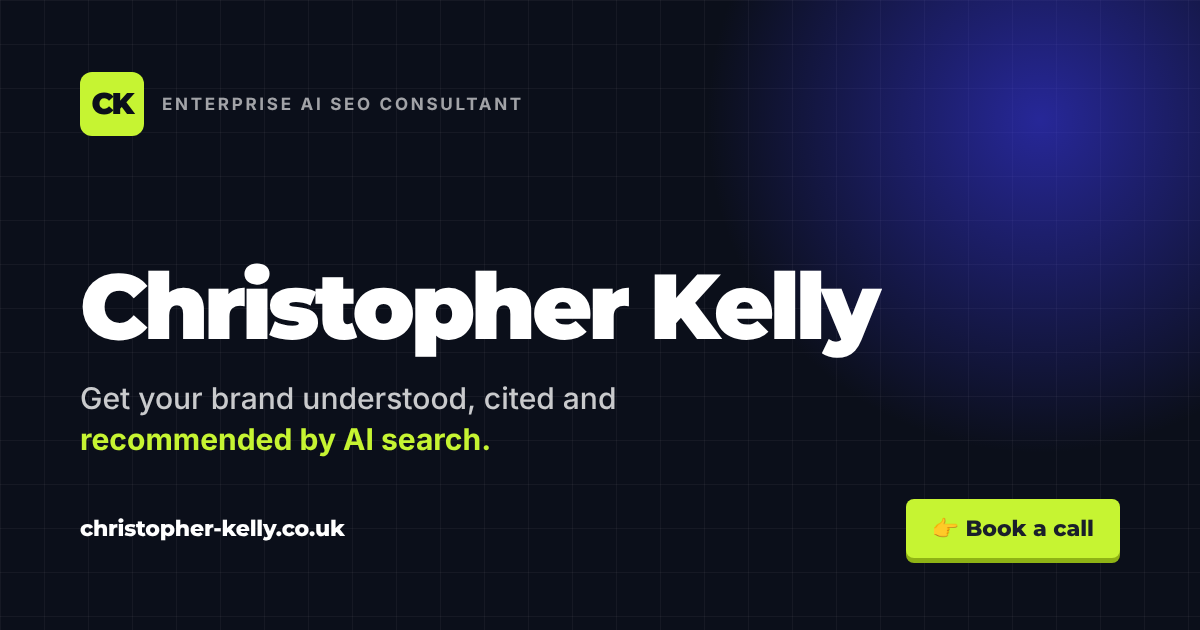
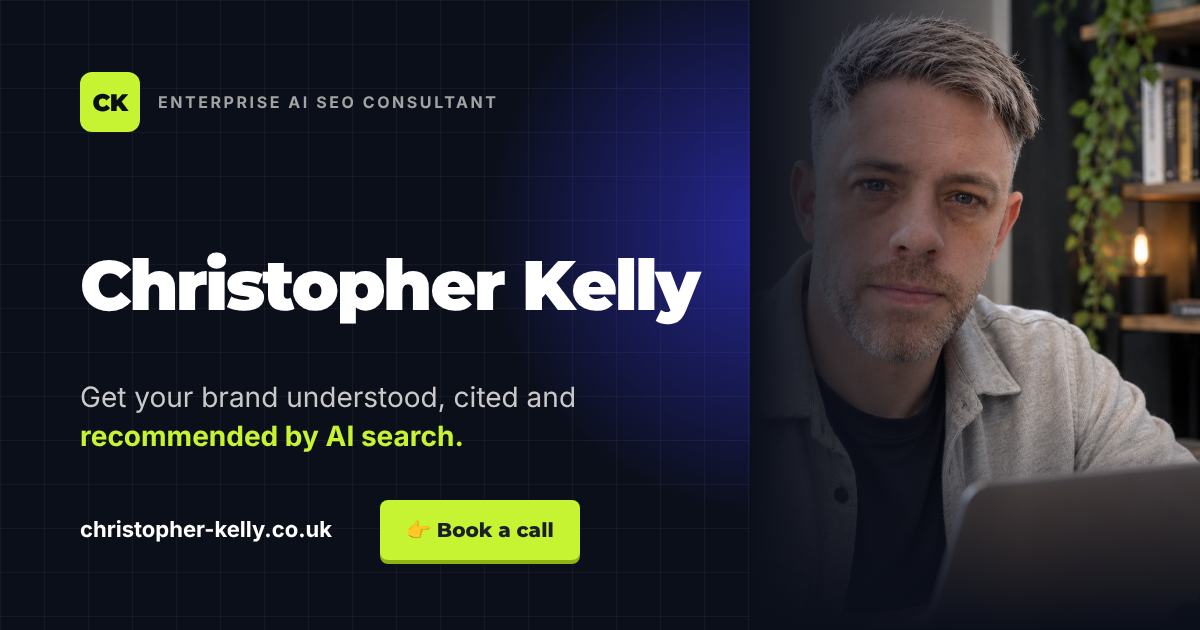
Share image: rebuild og.png with the portrait
Same card, portrait on the right. Source and render script in scripts/.

Claude-Session: https://claude.ai/code/session_011CDCpKfSAxSBB5HyrDDcK9

diff --git a/scripts/og.html b/scripts/og.html
@@ -1,0 +1,31 @@
+<!doctype html><html><head><meta charset="utf-8">
+<style>
+@font-face{font-family:M;font-weight:900;src:url(../node_modules/@fontsource/montserrat/files/montserrat-latin-900-normal.woff2)}
+@font-face{font-family:M;font-weight:800;src:url(../node_modules/@fontsource/montserrat/files/montserrat-latin-800-normal.woff2)}
+@font-face{font-family:I;font-weight:400;src:url(../node_modules/@fontsource/inter/files/inter-latin-400-normal.woff2)}
+@font-face{font-family:I;font-weight:600;src:url(../node_modules/@fontsource/inter/files/inter-latin-600-normal.woff2)}
+@font-face{font-family:I;font-weight:700;src:url(../node_modules/@fontsource/inter/files/inter-latin-700-normal.woff2)}
+*{margin:0;box-sizing:border-box}
+body{width:1200px;height:630px;background:#0B0F1A;font-family:I,sans-serif;color:#fff;position:relative;overflow:hidden;
+ background-image:linear-gradient(rgba(255,255,255,.045) 1px,transparent 1px),linear-gradient(90deg,rgba(255,255,255,.045) 1px,transparent 1px);background-size:44px 44px}
+.glow{position:absolute;right:120px;top:-80px;width:620px;height:620px;border-radius:50%;background:radial-gradient(circle,rgba(61,59,255,.55),rgba(61,59,255,0) 65%)}
+.photo{position:absolute;right:0;top:0;width:450px;height:630px;overflow:hidden}
+.photo img{width:100%;height:100%;object-fit:cover;object-position:62% 18%;display:block}
+.photo::after{content:"";position:absolute;inset:0;background:linear-gradient(90deg,#0B0F1A 0%,rgba(11,15,26,.7) 25%,rgba(11,15,26,0) 60%),linear-gradient(0deg,#0B0F1A 0%,rgba(11,15,26,0) 35%)}
+.top{position:absolute;left:80px;top:72px;display:flex;align-items:center;gap:18px}
+.ck{width:60px;height:60px;border-radius:12px;background:#C6F432;color:#0B0F1A;font:900 24px M;display:flex;align-items:center;justify-content:center;letter-spacing:-.02em}
+.eyebrow{font:700 16px I;letter-spacing:.16em;text-transform:uppercase;color:#A3A3A3}
+h1{position:absolute;left:80px;top:250px;font:900 70px/1 M;letter-spacing:-.035em;color:#fff}
+p{position:absolute;left:80px;top:378px;font:400 28px/1.4 I;color:#C9C9C9;width:560px}
+p b{color:#C6F432;font-weight:700}
+.url{position:absolute;left:80px;bottom:88px;font:700 22px I;color:#fff}
+.btn{position:absolute;left:380px;bottom:70px;background:#C6F432;color:#1A1F2B;font:800 20px M;padding:18px 26px;border-radius:8px;box-shadow:0 4px 0 #8FB315}
+</style></head><body>
+<div class="glow"></div>
+<div class="photo"><img src="../public/img/christopher-hero.jpg"></div>
+<div class="top"><div class="ck">CK</div><div class="eyebrow">Enterprise AI SEO Consultant</div></div>
+<h1>Christopher Kelly</h1>
+<p>Get your brand understood, cited and <b>recommended by AI search.</b></p>
+<div class="url">christopher-kelly.co.uk</div>
+<div class="btn">👉 Book a call</div>
+</body></html>

diff --git a/scripts/README.md b/scripts/README.md
@@ -1,0 +1,3 @@
+# scripts
+
+`og.html` + `og.mjs` render `public/og.png` (1200×630 share image). Run `node scripts/og.mjs` after editing `og.html` or swapping the portrait. Needs Playwright with Chromium; if it is not a local dependency set `PLAYWRIGHT_PKG` to its install path.
